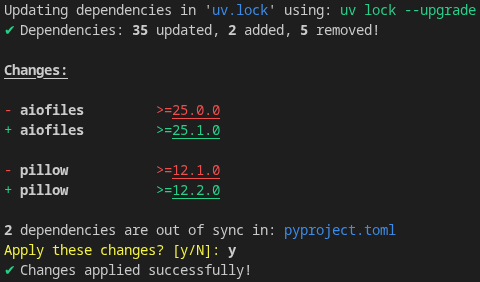
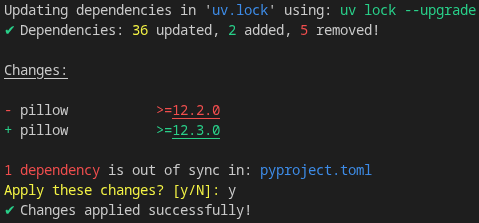
Update output formatting for improved readability and clarity (#28)

diff --git a/src/lib.rs b/src/lib.rs
@@ -179,34 +179,55 @@ pub fn print_uv_modified_dependencies(
     } else {
         let mut parts = Vec::new();
         if updated_count > 0 {
-            parts.push(format!("{} updated", updated_count.to_string().bold()));
+            parts.push(format!(
+                "{} updated",
+                updated_count.to_string().bright_yellow()
+            ));
         }
+
         if added_count > 0 {
-            parts.push(format!("{} added", added_count.to_string().bold()));
+            parts.push(format!("{} added", added_count.to_string().bright_green()));
         }
+
         if removed_count > 0 {
-            parts.push(format!("{} removed", removed_count.to_string().bold()));
+            parts.push(format!(
+                "{} removed",
+                removed_count.to_string().bright_red()
+            ));
         }
+
+        if verbose {
+            println!();
+
+            if updated_count > 0 {
+                println!("Updated:");
+                for dep in updated {
+                    println!("  {} {}", "~".bright_yellow(), dep);
+                }
+                println!();
+            }
+
+            if added_count > 0 {
+                println!("Added:");
+                for dep in added {
+                    println!("  {} {}", "+".bright_green(), dep);
+                }
+                println!();
+            }
+
+            if removed_count > 0 {
+                println!("Removed:");
+                for dep in removed {
+                    println!("  {} {}", "-".bright_red(), dep);
+                }
+                println!();
+            }
+        }
+
         println!(
             "{}",
             get_success_msg(&format!("Dependencies: {}!\n", parts.join(", ")))
         );
-
-        if verbose {
-            println!("Updated dependencies:");
-            for dep in updated {
-                println!("  {} {}", "~".bright_yellow().bold(), dep);
-            }
-            println!("Added dependencies:");
-            for dep in added {
-                println!("  {} {}", "+".bright_green().bold(), dep);
-            }
-            println!("Removed dependencies:");
-            for dep in removed {
-                println!("  {} {}", "-".bright_red().bold(), dep);
-            }
-            println!();
-        }
     }
 }
 
@@ -294,7 +315,7 @@ pub fn print_diff(changes: &[DependencyChange]) {
         println!(
             "{} {:<16} {}{}{}",
             "-".bright_red(),
-            change.name.bold(),
+            change.name,
             change.operator.clone().unwrap_or_default().bright_red(),
             change.old.bright_red().underline(),
             change.suffix.clone().unwrap_or_default().bright_red(),
@@ -302,7 +323,7 @@ pub fn print_diff(changes: &[DependencyChange]) {
         println!(
             "{} {:<16} {}{}{}",
             "+".bright_green(),
-            change.name.bold(),
+            change.name,
             change.operator.clone().unwrap_or_default().bright_green(),
             change.new.bright_green().underline(),
             change.suffix.clone().unwrap_or_default().bright_green()

diff --git a/src/main.rs b/src/main.rs
@@ -86,15 +86,15 @@ fn main() -> anyhow::Result<()> {
         println!("{}", get_warning_msg("Dependencies are already in sync!"));
         return Ok(());
     } else {
-        println!("{}", "Changes:\n".bold().underline());
+        println!("{}", "Changes:\n".underline());
         print_diff(&diff);
         println!(
-            "{} {} out of sync in: {}",
-            diff.len().to_string().bold(),
+            "{}{} out of sync in: {}",
+            diff.len().to_string().bright_red(),
             if diff.len() == 1 {
-                "dependency is"
+                format!("{} is", " dependency".bright_red())
             } else {
-                "dependencies are"
+                format!("{} are", " dependencies".bright_red())
             },
             PYPROJECT_FILENAME.bright_blue()
         );
@@ -130,9 +130,9 @@ fn main() -> anyhow::Result<()> {
         terminal::disable_raw_mode()?;
 
         if confirmed {
-            println!("{}", "y".bold());
+            println!("y");
         } else {
-            println!("{}", "N".bold());
+            println!("N");
             println!("{}", get_warning_msg("Aborting changes..."));
             return Ok(());
         }

diff --git a/CHANGELOG.md b/CHANGELOG.md
@@ -7,6 +7,7 @@ and this project adheres to [Semantic Versioning](https://semver.org/spec/v2.0.0
 
 ## [Unreleased]
 
+- Update output formatting for better readability and clarity.
 - Added unit tests and docstrings across codebase.
 - Updated documentation links.
 